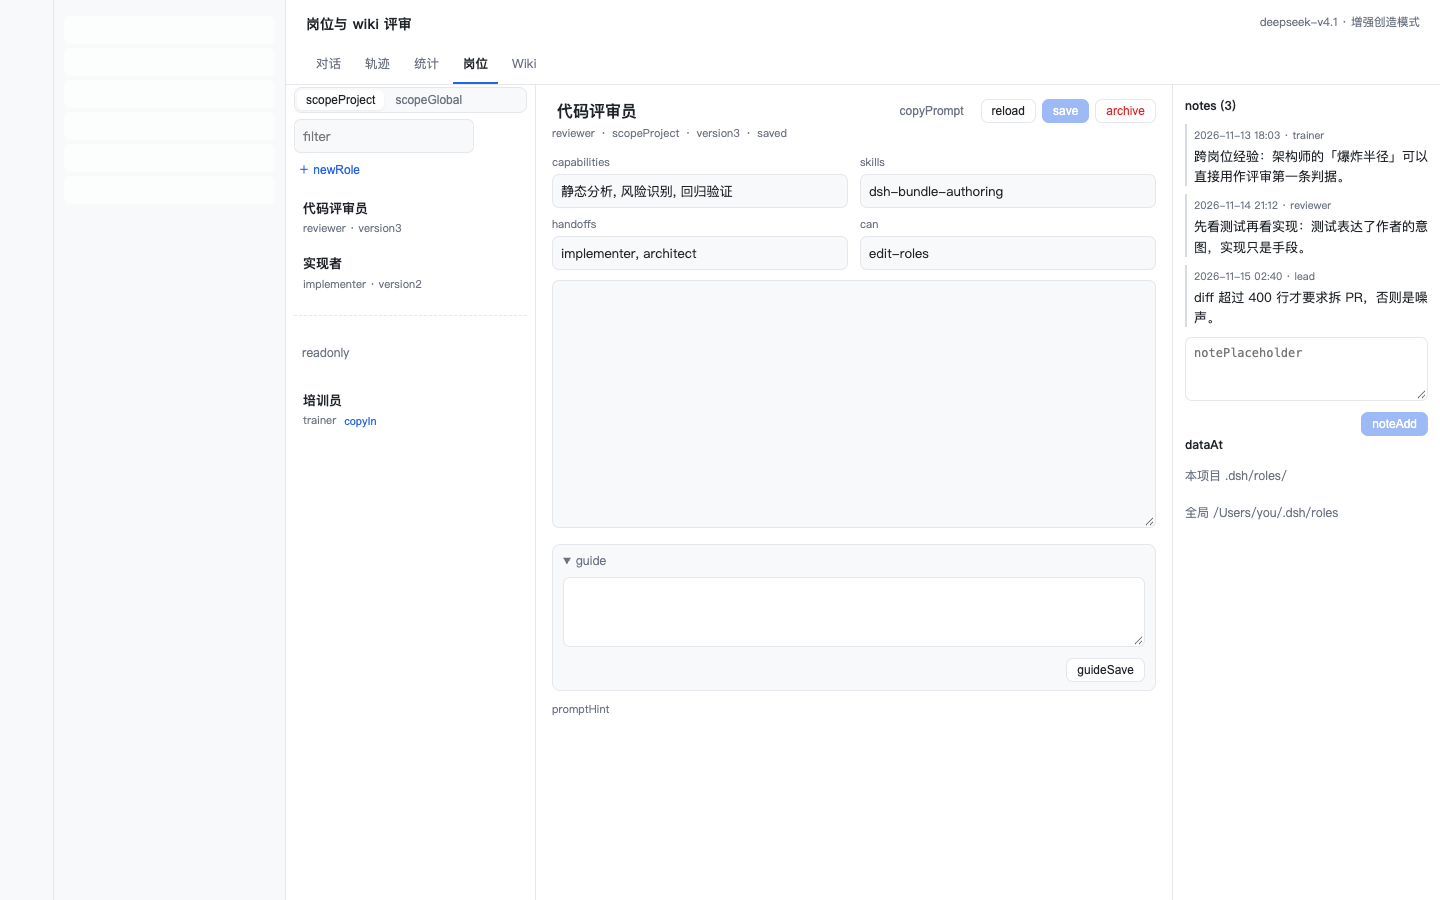
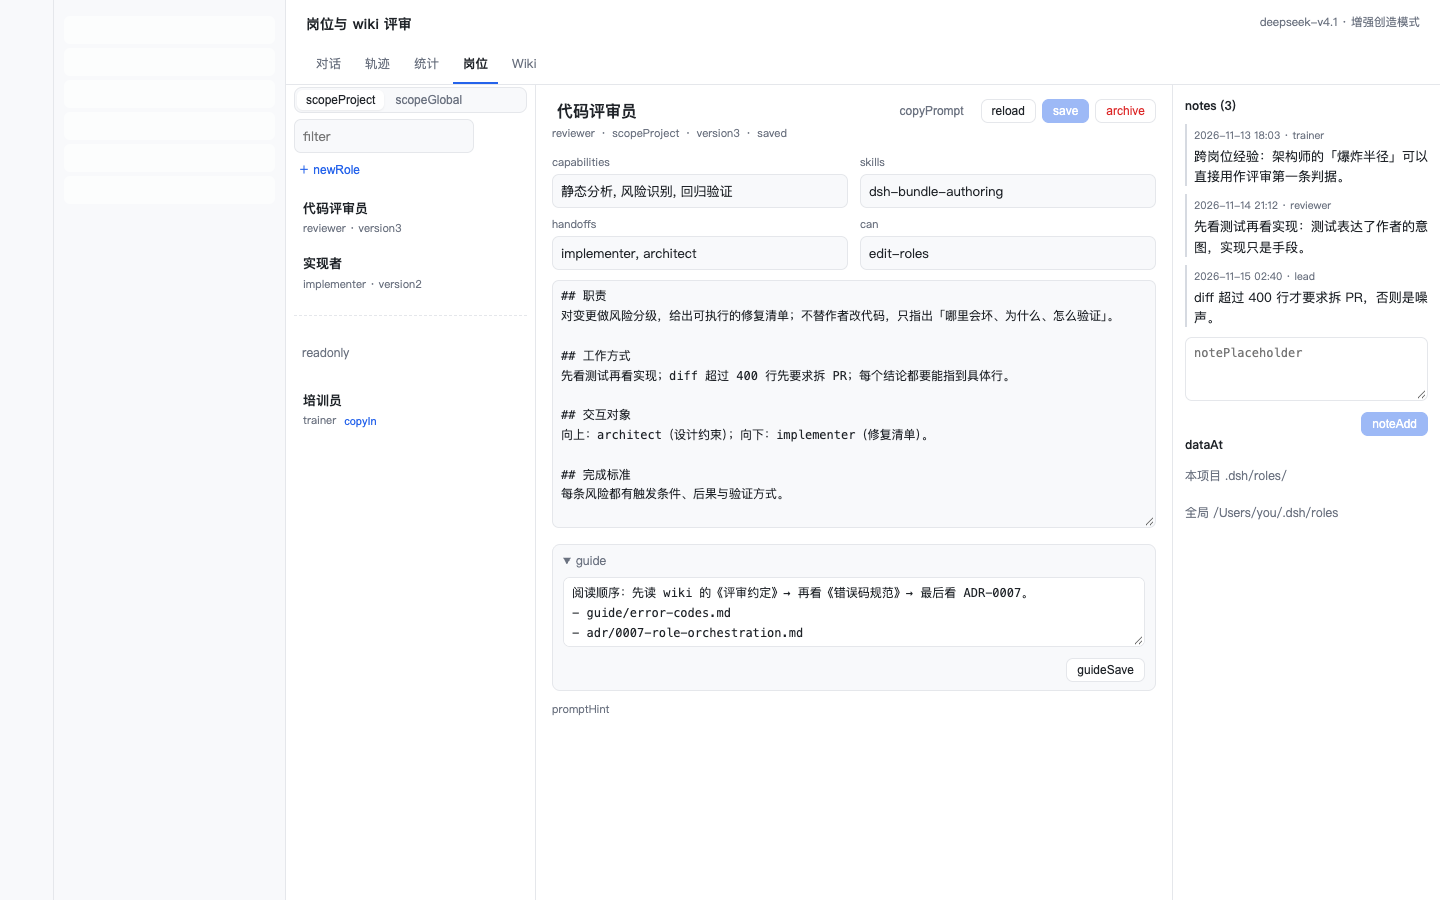
fix(preview): serialize fragments and textarea content so screenshots reflect the real tree

Changed region(s): [[0.375, 0.3111, 0.7812, 0.56], [0.4062, 0.6533, 0.7188, 0.7156]]

diff --git a/docs/demo/preview-wiki.html b/docs/demo/preview-wiki.html
@@ -137,7 +137,7 @@ textarea.dw-dialog-input { min-height: 84px; resize: vertical; }
       <div class="sesstop"><b>岗位与 wiki 评审</b><span>deepseek-v4.1 · 增强创造模式</span></div>
       <nav class="tabs"><span>对话</span><span>轨迹</span><span>统计</span><span class="on">Wiki</span><span>岗位</span></nav>
     </header>
-    <div class="viewArea" id="mount"><div class="dw-root"><div class="dw-body"><aside class="dw-tree"><div class="dw-treehead"><div class="dw-controls"><div class="dw-segmented"><button class="dw-segment dw-segment-active">scopeGlobal</button><button class="dw-segment">scopeProject</button></div><span class="dw-chip">pendingCount</span><span class="dw-chip dw-chip-quiet">gitOn</span><button class="dw-button">refresh</button></div></div><input class="dw-input dw-search" value="" placeholder="searchPlaceholder"><div class="dw-tree-meta">pagesCount · draftsCount</div><ul class="dw-page-list"><li><button class="dw-page-row dw-page-row-active"><span class="dw-page-title">错误码规范</span><span class="dw-page-sub"><span class="dw-dot dw-dot-stable"></span>guide/error-codes.md</span></button></li><li><button class="dw-page-row"><span class="dw-page-title">新人上手</span><span class="dw-page-sub"><span class="dw-dot dw-dot-wip"></span>guide/onboarding.md</span></button></li><li><button class="dw-page-row"><span class="dw-page-title">ADR-0007 岗位制编排</span><span class="dw-page-sub"><span class="dw-dot dw-dot-wip"></span>adr/0007-role-orchestration.md</span></button></li><li><button class="dw-page-row"><span class="dw-page-title">术语表</span><span class="dw-page-sub"><span class="dw-dot dw-dot-stable"></span>domain/glossary.md</span></button></li></ul></aside><main class="dw-main"><undefined><div class="dw-page-head"><div><h2>错误码规范</h2><div class="dw-page-meta"><span class="dw-mono">guide/error-codes.md</span><span class="dw-dot dw-dot-stable"></span><span>stable</span><span class="dw-muted">updated 2026-11-12</span></div></div><div class="dw-tabs"><button class="dw-tab dw-tab-active">tabSource</button><button class="dw-tab">tabPreview</button><button class="dw-tab">tabDraft</button><span class="dw-spacer"></span><button class="dw-button">edit</button></div></div><textarea class="dw-input dw-editor" value="---
+    <div class="viewArea" id="mount"><div class="dw-root"><div class="dw-body"><aside class="dw-tree"><div class="dw-treehead"><div class="dw-controls"><div class="dw-segmented"><button class="dw-segment dw-segment-active">scopeGlobal</button><button class="dw-segment">scopeProject</button></div><span class="dw-chip">pendingCount</span><span class="dw-chip dw-chip-quiet">gitOn</span><button class="dw-button">refresh</button></div></div><input class="dw-input dw-search" value="" placeholder="searchPlaceholder"><div class="dw-tree-meta">pagesCount · draftsCount</div><ul class="dw-page-list"><li><button class="dw-page-row dw-page-row-active"><span class="dw-page-title">错误码规范</span><span class="dw-page-sub"><span class="dw-dot dw-dot-stable"></span>guide/error-codes.md</span></button></li><li><button class="dw-page-row"><span class="dw-page-title">新人上手</span><span class="dw-page-sub"><span class="dw-dot dw-dot-wip"></span>guide/onboarding.md</span></button></li><li><button class="dw-page-row"><span class="dw-page-title">ADR-0007 岗位制编排</span><span class="dw-page-sub"><span class="dw-dot dw-dot-wip"></span>adr/0007-role-orchestration.md</span></button></li><li><button class="dw-page-row"><span class="dw-page-title">术语表</span><span class="dw-page-sub"><span class="dw-dot dw-dot-stable"></span>domain/glossary.md</span></button></li></ul></aside><main class="dw-main"><div class="dw-page-head"><div><h2>错误码规范</h2><div class="dw-page-meta"><span class="dw-mono">guide/error-codes.md</span><span class="dw-dot dw-dot-stable"></span><span>stable</span><span class="dw-muted">updated 2026-11-12</span></div></div><div class="dw-tabs"><button class="dw-tab dw-tab-active">tabSource</button><button class="dw-tab">tabPreview</button><button class="dw-tab">tabDraft</button><span class="dw-spacer"></span><button class="dw-button">edit</button></div></div><textarea class="dw-input dw-editor" value="---
 title: 错误码规范
 tags: [约定, api]
 status: stable
@@ -145,7 +145,15 @@ updated: 2026-11-12
 ---
 
 ## 原则
-错误码是接口的一部分，一旦发布就只能新增，不能改语义。"></textarea></undefined></main><aside class="dw-rail"><undefined><section class="dw-section"><h3>draftTitle</h3><undefined><dl class="dw-dl"><dt>status</dt><dd>draftStatus_pending</dd><dt>draftAuthor</dt><dd>lead</dd><dt>draftBase</dt><dd class="dw-mono">3f2a91c4</dd><dt>draftUpdated</dt><dd>2026-11-15T02:40:00.000Z</dd></dl><div class="dw-actions"><button class="dw-button dw-primary">approve</button><button class="dw-button">reject</button></div></undefined></section><section class="dw-section"><h3>backlinks (2)</h3><ul class="dw-backlinks"><li><button class="dw-link">新人上手</button></li><li><button class="dw-link">ADR-0007 岗位制编排</button></li></ul></section><section class="dw-section"><h3>meta</h3><dl class="dw-dl"><dt>path</dt><dd class="dw-mono">guide/error-codes.md</dd><dt>tags</dt><dd>约定, api</dd><dt>contract</dt><dd class="dw-mono">/Users/you/.dsh/wiki.md</dd></dl></section><section class="dw-section"><div class="dw-actions"><button class="dw-button">renamePage</button><button class="dw-button dw-danger">deletePage</button></div></section></undefined></aside></div></div></div>
+错误码是接口的一部分，一旦发布就只能新增，不能改语义。">---
+title: 错误码规范
+tags: [约定, api]
+status: stable
+updated: 2026-11-12
+---
+
+## 原则
+错误码是接口的一部分，一旦发布就只能新增，不能改语义。</textarea></main><aside class="dw-rail"><section class="dw-section"><h3>draftTitle</h3><dl class="dw-dl"><dt>status</dt><dd>draftStatus_pending</dd><dt>draftAuthor</dt><dd>lead</dd><dt>draftBase</dt><dd class="dw-mono">3f2a91c4</dd><dt>draftUpdated</dt><dd>2026-11-15T02:40:00.000Z</dd></dl><div class="dw-actions"><button class="dw-button dw-primary">approve</button><button class="dw-button">reject</button></div></section><section class="dw-section"><h3>backlinks (2)</h3><ul class="dw-backlinks"><li><button class="dw-link">新人上手</button></li><li><button class="dw-link">ADR-0007 岗位制编排</button></li></ul></section><section class="dw-section"><h3>meta</h3><dl class="dw-dl"><dt>path</dt><dd class="dw-mono">guide/error-codes.md</dd><dt>tags</dt><dd>约定, api</dd><dt>contract</dt><dd class="dw-mono">/Users/you/.dsh/wiki.md</dd></dl></section><section class="dw-section"><div class="dw-actions"><button class="dw-button">renamePage</button><button class="dw-button dw-danger">deletePage</button></div></section></aside></div></div></div>
   </main>
 </div>
 <script>globalThis.__previewReady = true</script>

diff --git a/docs/demo/preview-roles.html b/docs/demo/preview-roles.html
@@ -129,9 +129,21 @@
 向上：architect（设计约束）；向下：implementer（修复清单）。
 
 ## 完成标准
-每条风险都有触发条件、后果与验证方式。"></textarea><details class="hr-guide" open><summary>guide</summary><textarea class="hr-textarea hr-guide-text" value="阅读顺序：先读 wiki 的《评审约定》→ 再看《错误码规范》→ 最后看 ADR-0007。
+每条风险都有触发条件、后果与验证方式。">## 职责
+对变更做风险分级，给出可执行的修复清单；不替作者改代码，只指出「哪里会坏、为什么、怎么验证」。
+
+## 工作方式
+先看测试再看实现；diff 超过 400 行先要求拆 PR；每个结论都要能指到具体行。
+
+## 交互对象
+向上：architect（设计约束）；向下：implementer（修复清单）。
+
+## 完成标准
+每条风险都有触发条件、后果与验证方式。</textarea><details class="hr-guide" open><summary>guide</summary><textarea class="hr-textarea hr-guide-text" value="阅读顺序：先读 wiki 的《评审约定》→ 再看《错误码规范》→ 最后看 ADR-0007。
 - guide/error-codes.md
-- adr/0007-role-orchestration.md"></textarea><div class="hr-guide-actions"><button class="hr-btn">guideSave</button></div></details><p class="hr-hint">promptHint</p></div></section><aside class="hr-col hr-side-col"><h3 class="hr-side-title">notes (3)</h3><div><ul class="hr-note-list"><li><span class="hr-note-meta">2026-11-13 18:03 · trainer</span><p>跨岗位经验：架构师的「爆炸半径」可以直接用作评审第一条判据。</p></li><li><span class="hr-note-meta">2026-11-14 21:12 · reviewer</span><p>先看测试再看实现：测试表达了作者的意图，实现只是手段。</p></li><li><span class="hr-note-meta">2026-11-15 02:40 · lead</span><p>diff 超过 400 行才要求拆 PR，否则是噪声。</p></li></ul><textarea class="hr-textarea hr-note-input" value="" placeholder="notePlaceholder"></textarea><div class="hr-note-actions"><button class="hr-btn hr-primary" disabled>noteAdd</button></div></div><h3 class="hr-side-title">dataAt</h3><p class="hr-muted">本项目 .dsh/roles/<br></br>全局 /Users/you/.dsh/roles</p></aside></div></div></div>
+- adr/0007-role-orchestration.md">阅读顺序：先读 wiki 的《评审约定》→ 再看《错误码规范》→ 最后看 ADR-0007。
+- guide/error-codes.md
+- adr/0007-role-orchestration.md</textarea><div class="hr-guide-actions"><button class="hr-btn">guideSave</button></div></details><p class="hr-hint">promptHint</p></div></section><aside class="hr-col hr-side-col"><h3 class="hr-side-title">notes (3)</h3><div><ul class="hr-note-list"><li><span class="hr-note-meta">2026-11-13 18:03 · trainer</span><p>跨岗位经验：架构师的「爆炸半径」可以直接用作评审第一条判据。</p></li><li><span class="hr-note-meta">2026-11-14 21:12 · reviewer</span><p>先看测试再看实现：测试表达了作者的意图，实现只是手段。</p></li><li><span class="hr-note-meta">2026-11-15 02:40 · lead</span><p>diff 超过 400 行才要求拆 PR，否则是噪声。</p></li></ul><textarea class="hr-textarea hr-note-input" value="" placeholder="notePlaceholder"></textarea><div class="hr-note-actions"><button class="hr-btn hr-primary" disabled>noteAdd</button></div></div><h3 class="hr-side-title">dataAt</h3><p class="hr-muted">本项目 .dsh/roles/<br></br>全局 /Users/you/.dsh/roles</p></aside></div></div></div>
   </main>
 </div>
 <script>globalThis.__previewReady = true</script>
